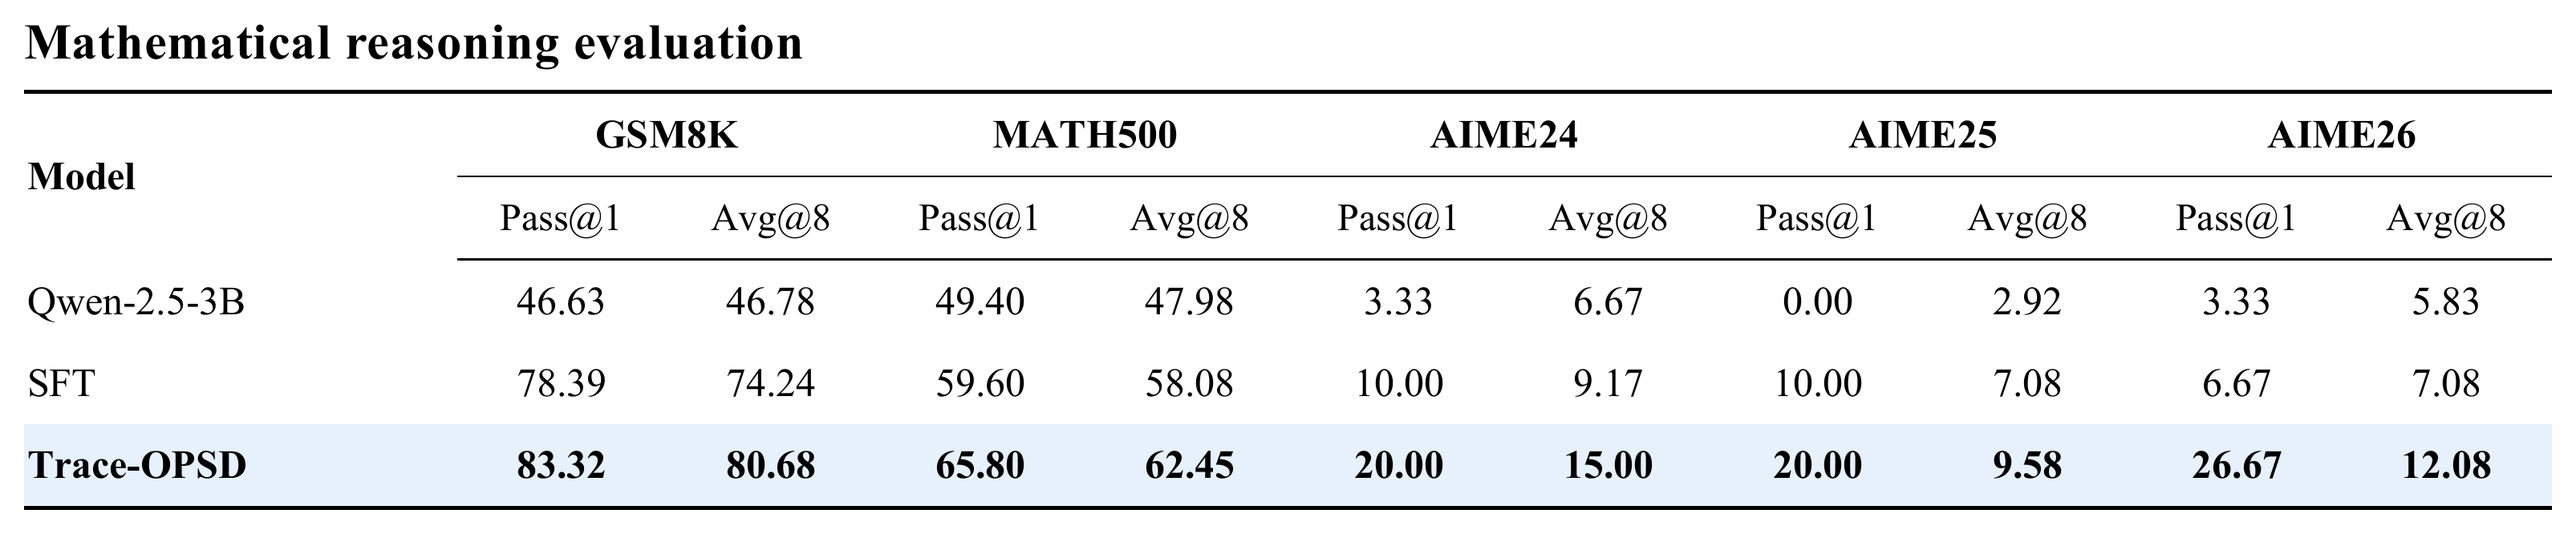
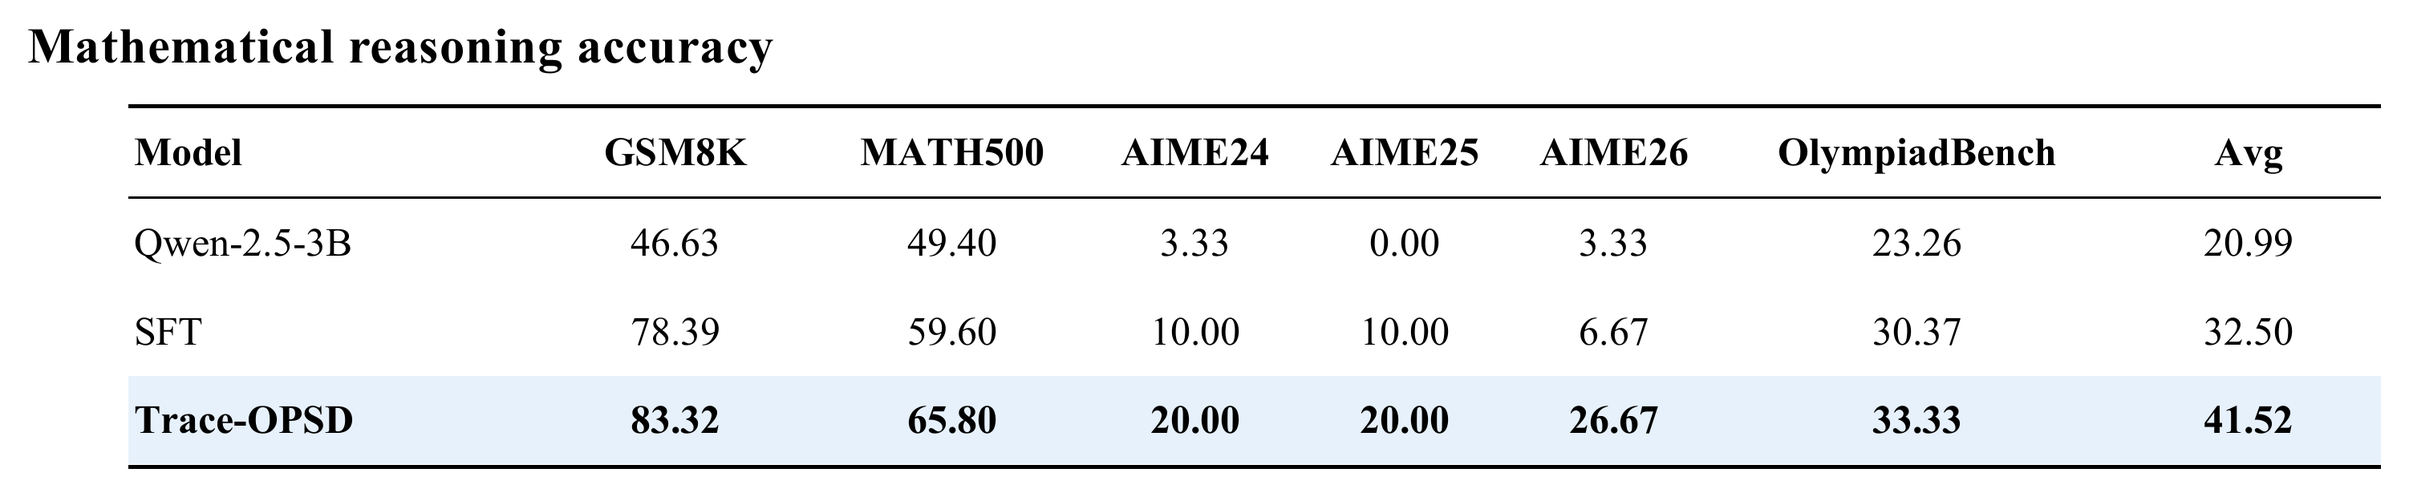
Add OlympiadBench and report accuracy with benchmark mean

diff --git a/docs/evaluation-results.md b/docs/evaluation-results.md
@@ -1,0 +1,26 @@
+# Mathematical reasoning accuracy
+
+Acc (accuracy) is the fraction of questions answered correctly with one greedy trajectory per question; it is the same measurement previously labeled Pass@1. All values are percentages. Avg is the equal-weight arithmetic mean across the six displayed benchmarks, calculated from unrounded accuracies.
+
+| Model | GSM8K | MATH500 | AIME24 | AIME25 | AIME26 | OlympiadBench | Avg |
+| --- | ---: | ---: | ---: | ---: | ---: | ---: | ---: |
+| Qwen-2.5-3B | 46.63 | 49.40 | 3.33 | 0.00 | 3.33 | 23.26 | 20.99 |
+| SFT | 78.39 | 59.60 | 10.00 | 10.00 | 6.67 | 30.37 | 32.50 |
+| Trace-OPSD | 83.32 | 65.80 | 20.00 | 20.00 | 26.67 | 33.33 | 41.52 |
+
+## Evaluation data
+
+| Benchmark | Questions |
+| --- | ---: |
+| GSM8K | 1,319 |
+| MATH500 | 500 |
+| AIME24 | 30 |
+| AIME25 | 30 |
+| AIME26 | 30 |
+| OlympiadBench | 675 |
+
+Qwen-2.5-3B denotes Qwen2.5-3B-Instruct. The Trace-OPSD row uses the published historical model. The OlympiadBench comparison contains 675 English open-ended mathematics questions; it does not cover the full multilingual benchmark. The existing snapshots retain 30 recorded training-source overlaps in OlympiadBench and one in AIME26. These questions remain in the displayed denominators.
+
+All three OlympiadBench runs have 675 unique records and zero generation or verification exceptions. Missing answers and truncated trajectories remain in the denominator. The supplementary runs use BF16 inference, greedy decoding (temperature 0), top-p 1, top-k -1, seed 42, an 8,192-token context, a 4,096-token response budget, 1,024 tokens per assistant turn, 512 observation tokens, and at most five tool calls.
+
+[CSV](evaluation-results.csv) and [counts and provenance](evaluation-results.json) provide machine-readable values.

diff --git a/README.md b/README.md
@@ -23,7 +23,9 @@ A post-training framework for multi-turn mathematical reasoning.
 
 ## Evaluation results
 
-![Results for Qwen-2.5-3B, SFT, and Trace-OPSD, with Pass@1 and Avg@8 columns under each benchmark](docs/images/evaluation-comparison.png)
+![Accuracy comparison of Qwen-2.5-3B, SFT, and Trace-OPSD on GSM8K, MATH500, AIME24, AIME25, AIME26, and OlympiadBench, with mean accuracy in the Avg column](docs/images/evaluation-comparison.png)
+
+**Acc (accuracy)** is the percentage of correct answers with greedy decoding. **Avg** is the equal-weight mean across the six benchmarks, calculated before rounding. [Protocol, counts, and data notes](docs/evaluation-results.md).
 
 ## Algorithm pseudocode
 
